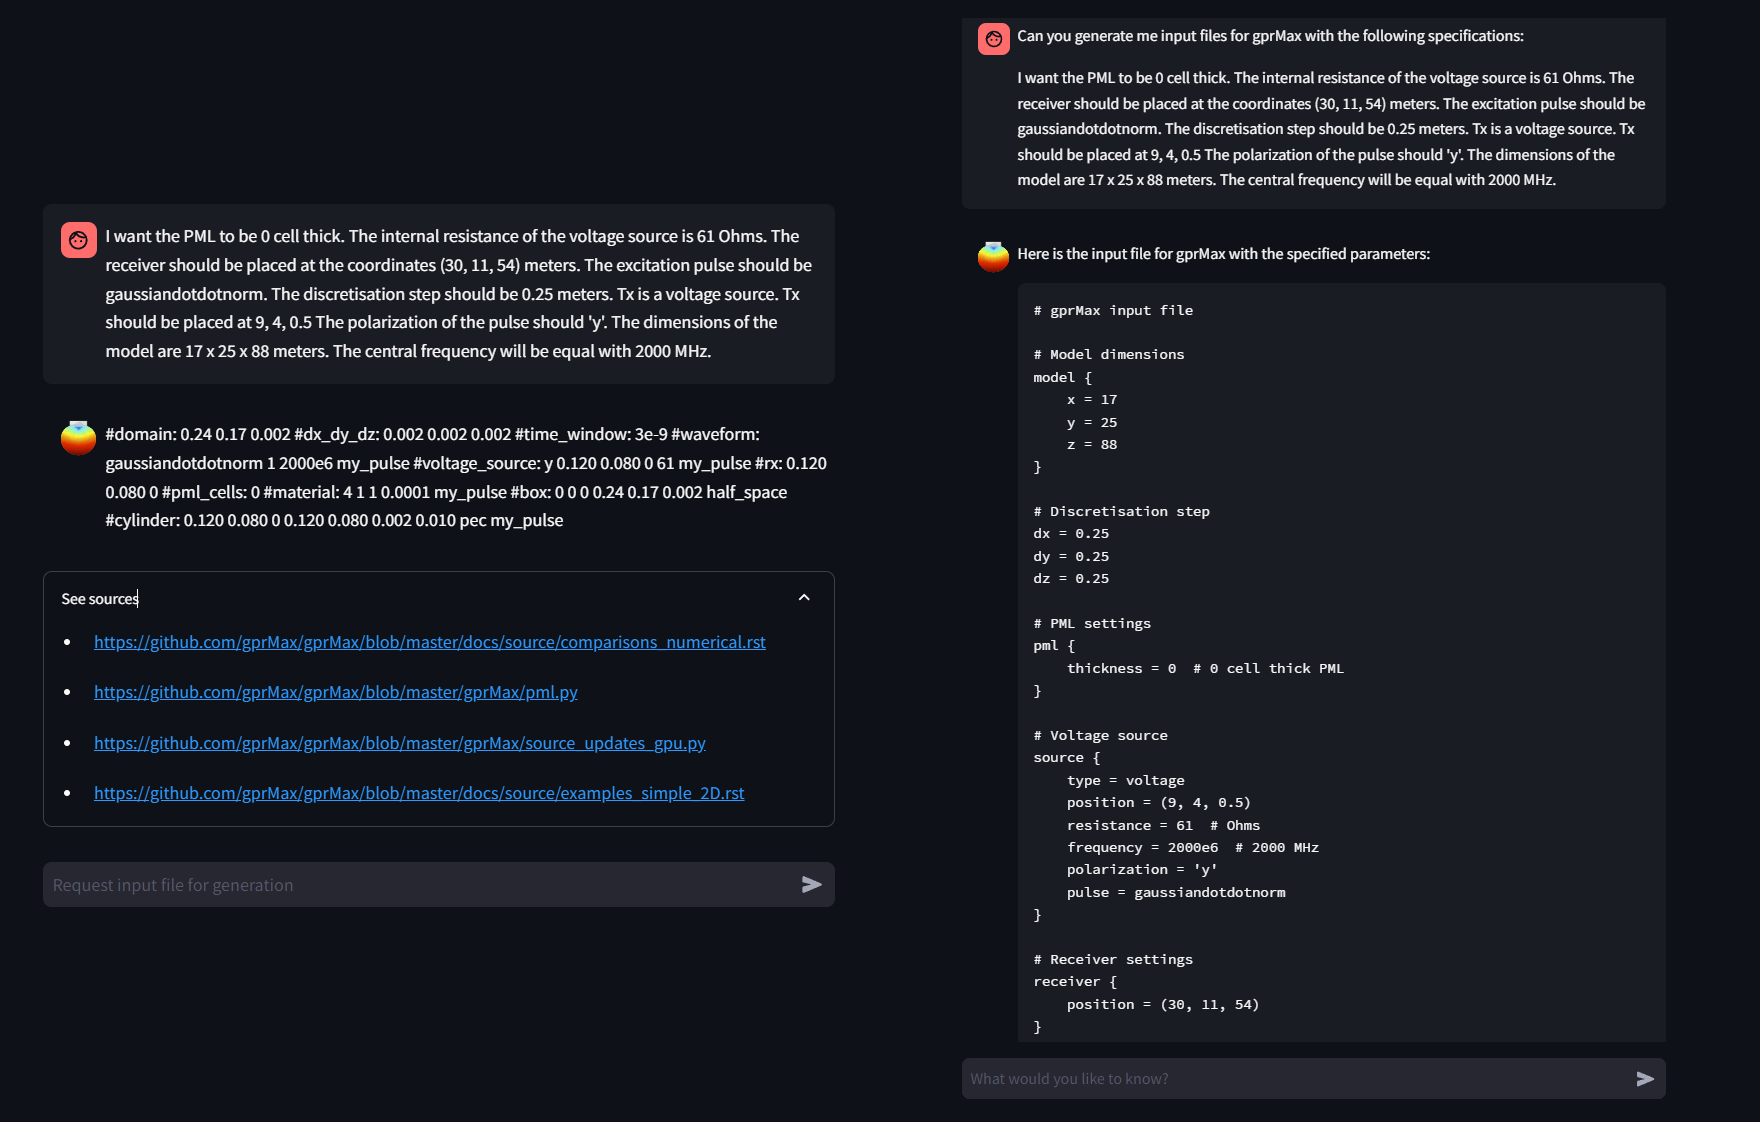
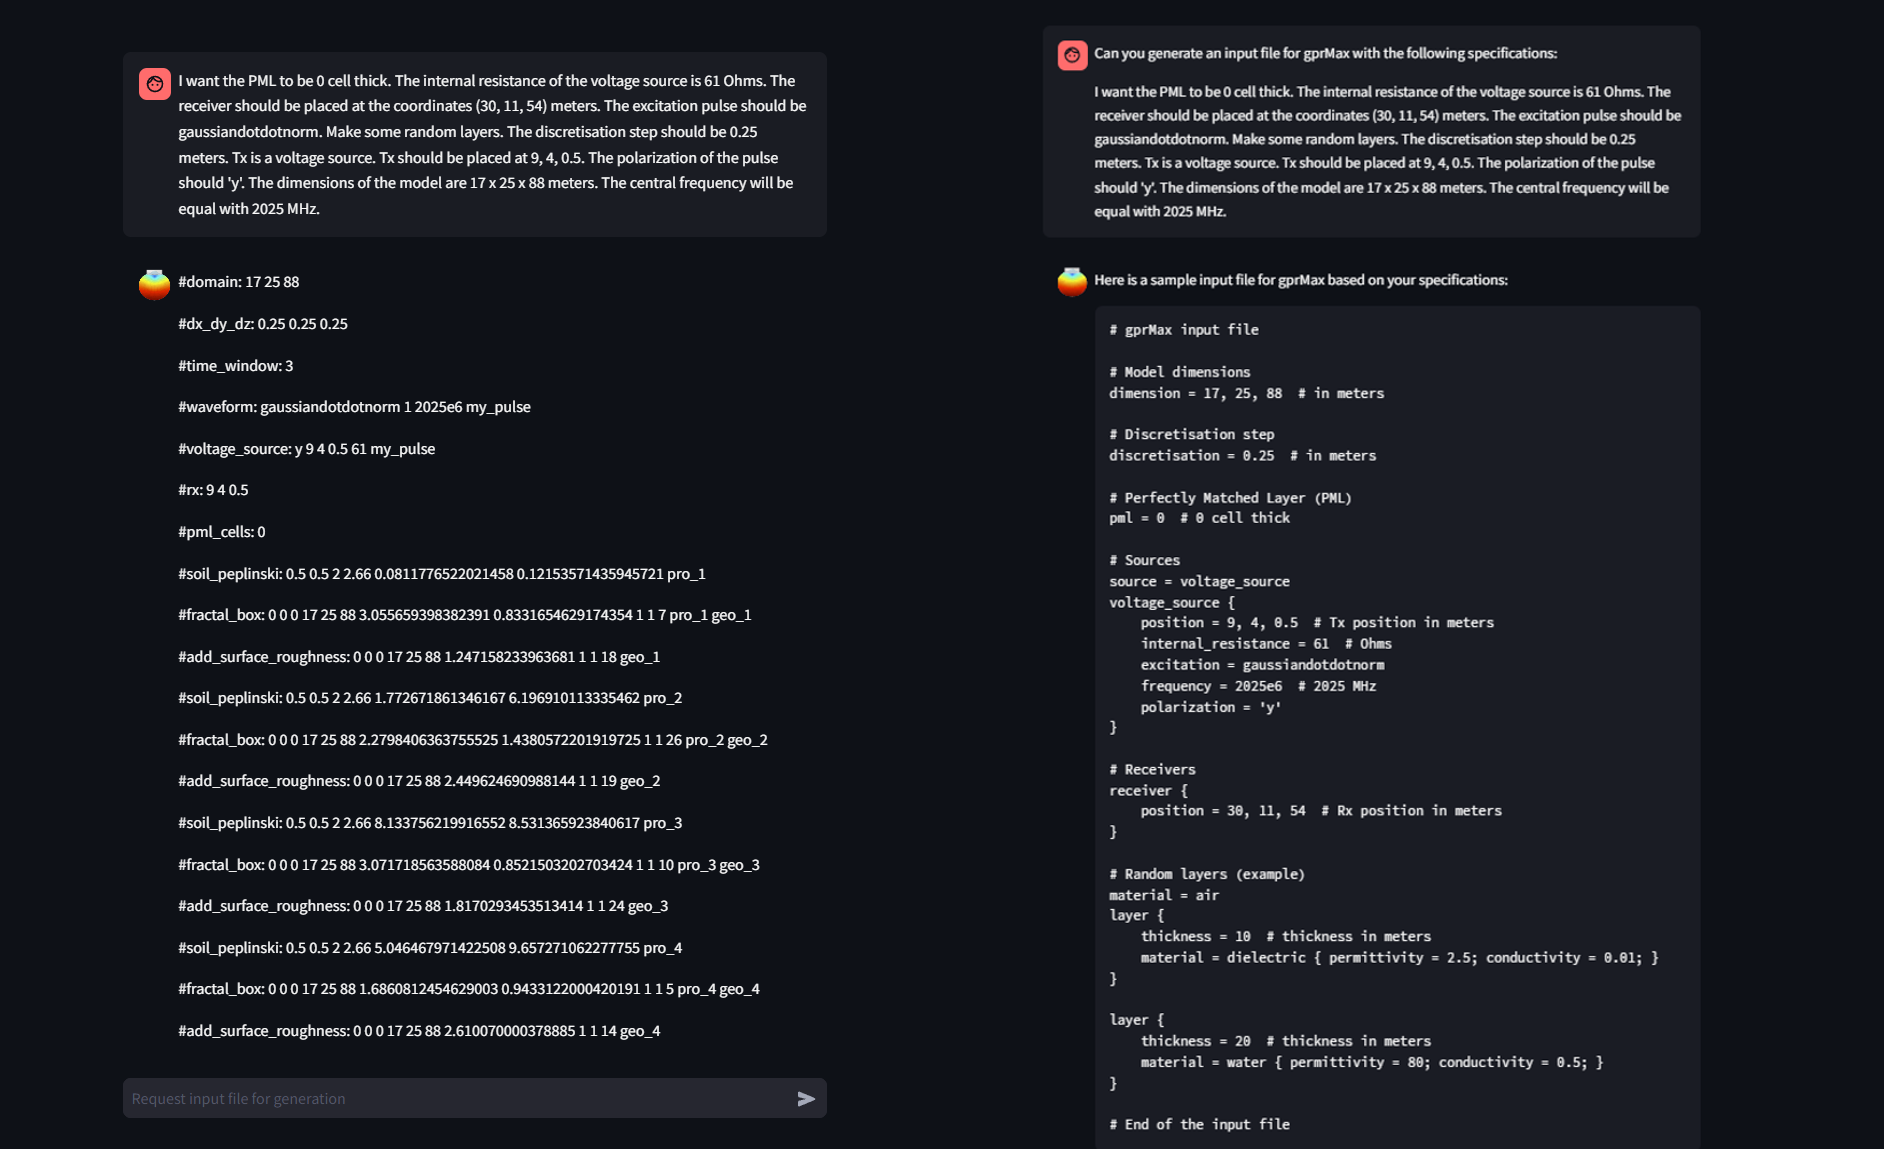
input file formatting

diff --git a/utils/streamlit_utils.py b/utils/streamlit_utils.py
@@ -604,6 +604,9 @@ def input_func():
 
         answer, sources = query_chatbot_input(streamlit_prompt, db, docstore, llm)
 
+        # reformat "answer" to have spaces before each "#" delimiter
+        answer = answer.replace("#", "\n#")
+
         with st.chat_message("assistant", avatar=AI_AVATAR):
             st.write(answer)
         history.add_ai_message(answer)
